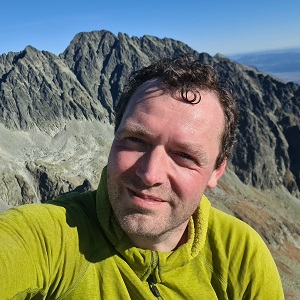
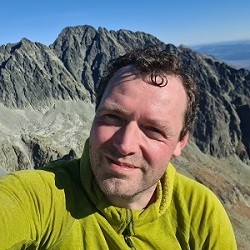
ddd

diff --git a/index.html b/index.html
@@ -78,14 +78,15 @@
 
     <div class="container px-3 myhdr myborder">
       <div class="row">
-        <div class="col-sm-3 col-lg-2">
+        <div class="col-sm-4 col-lg-3">
 
-          <div class="p-1 pt-3">
-            <div class="spanhov"><img class="img-fluid img-thumbnail justify-content-center d-flex d-block" src="my_photo_main.jpg" alt="Konczysta - kopczyk"></div>
-            <div class="hide"><img tabindex="0" class="img-fluid img-thumbnail justify-content-center d-flex d-block" src="my_photo_hov.jpg" alt="Autor"></div>
+          <div class="p-2 pt-4 justify-content-center d-flex">
+            <div class="spanhov"><img class="img-thumbnail justify-content-center d-flex" src="my_photo_main.jpg" alt="Konczysta - kopczyk"></div>
+            <div class="hide"><img tabindex="0" class="img-thumbnail justify-content-center d-flex" src="my_photo_hov.jpg" alt="Autor"></div>
           </div>
 
-          <p class="mt-4 p-1 "><span class="bold-nav-ft">O mnie &#128071; </span><br> Tomek W. - Fascynat Tatr, Muzyki i
+          <h5 class="mt-2 px-2 bold-nav-ft">O mnie &#128071;</h5>
+            <p class="p-1 ">Tomek W. - Fascynat Tatr, Muzyki i
             Matematyki &rArr;
             Górskie wędrówki, koncerty i łamigłówki</p>
           <h5 class="mt-4 p-1">Przydatne źródła &#128071;</h5>
@@ -118,7 +119,7 @@
             </li>
           </ul>
         </div>
-        <div class="col-sm-9 col-lg-6 px-5 bg-light">
+        <div class="col-sm-8 col-lg-5 px-5 bg-light">
 
           <div class="mb-3 pt-2"><img class="img-fluid d-block img-thumbnail" src="eap_mini.jpg"
               alt="Exitus Acta Probat"></div>

diff --git a/cezar.html b/cezar.html
@@ -3,7 +3,7 @@
 
 
 <head>
-    <title>Szyfrowanie i Kody - SZyfr Cezara</title>
+    <title>Szyfrowanie i Kody - Szyfr Cezara</title>
     <meta charset="utf-8">
     <meta name="viewport" content="width=device-width, initial-scale=1.0">
     <link href="https://cdn.jsdelivr.net/npm/bootstrap@5.3.3/dist/css/bootstrap.min.css" rel="stylesheet">
@@ -103,6 +103,10 @@
                         litera
                         <i>a</i> itd.
                     </p>
+                    <p>
+                        Każda litera tekstu jawnego jest zastępowana inną literą, która jest od niej oddalona o stałą liczbę pozycji w alfabecie. Jeśli algorytm wskazywałby na pozycję, która wychodzi poza ostatnią literę w alfabecie, to przechodzi się na początek alfabetu. Poniżej schemat.
+                    </p>
+                    <img class="img-fluid d-block img-thumbnail" src="cezar02.jpg" alt="Cezar Schemat">
                 </div>
                 <div class="col-md-6 col-12 p-5 codediv">
                     <h2 class="display-6">KODER/DEKODER</h2>

diff --git a/ramsay.html b/ramsay.html
@@ -86,13 +86,7 @@
 
                     <h3>Opis</h3>
                     <p>
-                        Jeden z najstarszych sposobów szyfrowania pochodzi od Juliusza Cezara, który szyfrował
-                        swoją
-                        korespondencję
-                        z Cyceronem. Sposób ten polegał na tym, że zamiast każdej litery pisał literę
-                        występującą w
-                        alfabecie
-                        trzy miejsca dalej. Tak więc, jeśli użyjemy dzisiejszego alfabetu łacińskiego
+                      Szyfr opracowany przez radzieckich kryptologów w pierwszej połowie lat 30 XX wieku. W latach 1935–41 był używany przez radziecką siatkę szpiegowską w Japonii kierowaną przez Richarda Sorge. Ramsay był to kryptonim Sorgego, czasem używany do określenia całej siatki. W różnych nieco zmienionych wariantach szyfr ten był stosowany przez radzieckich szpiegów do początku lat 50.
                         <hr>
 
                         <i>abcdefghijklmnopqrstuvwxyz</i><hr>

diff --git a/styles.css b/styles.css
@@ -124,6 +124,8 @@ h1 {
 
 }
 
+
+
 .nav>.nav-item>.nav-link:hover {
 
   background-color: whitesmoke;
